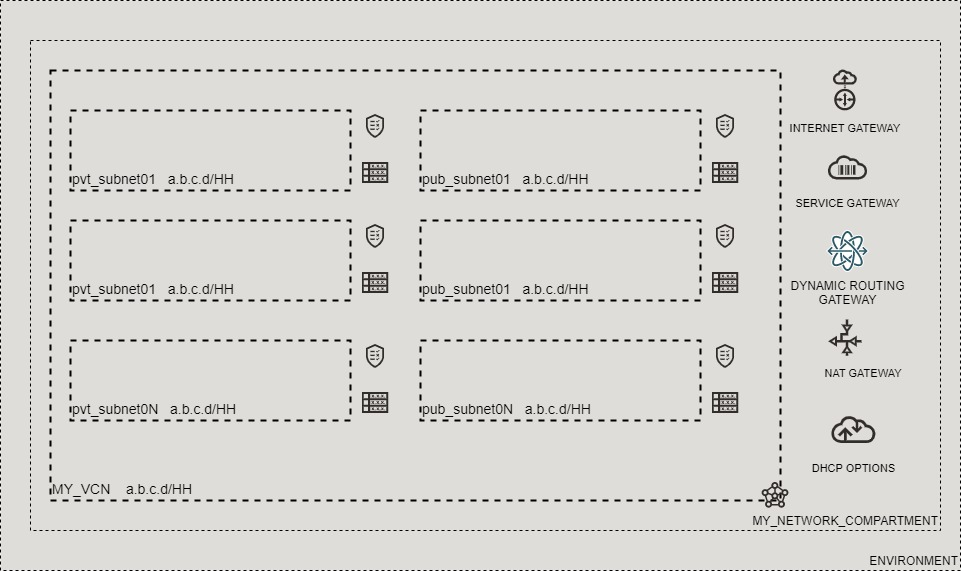
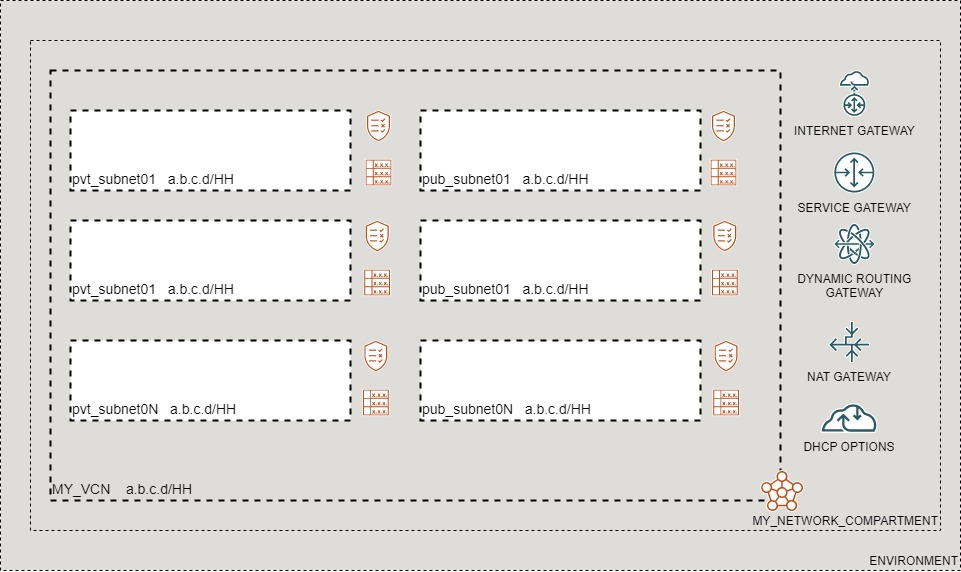
Adds ability to provision basic VCNs
Updates diagram

diff --git a/README.md b/README.md
@@ -100,6 +100,39 @@ is_spoke                 = true
 ########## IS SPOKE ##########
 ```
 
+If implementation is intended to be a basic VCN
+
+```shell
+########## IS BASIC VCN ##########
+########## SAMPLE TFVAR FILE ##########
+########## PROVIDER SPECIFIC VARIABLES ##########
+region           = "foo-region-1"
+tenancy_ocid     = "ocid1.tenancy.oc1..abcdefg"
+user_ocid        = "ocid1.user.oc1..aaaaaaabcdefg"
+fingerprint      = "fo:oo:ba:ar:ba:ar"
+private_key_path = "/absolute/path/to/api/key/your_api_key.pem"
+########## PROVIDER SPECIFIC VARIABLES ##########
+
+########## ARTIFACT SPECIFIC VARIABLES ##########
+vcn_cidr_blocks                     = ["10.0.0.0/16"]
+private_subnet_cidr_block_map       = { "pvtsn01" : "10.0.0.0/23", "pvtsn02" : "10.0.2.0/23", "pvtsn03" : "10.0.4.0/23" }
+public_subnet_cidr_block_map        = { "pubsn01" : "10.0.6.0/23", "pubsn02" : "10.0.8.0/23", "pubsn03" : "10.0.10.0/23" }
+vcn_display_name                    = "VCN_DISPLAY_NAME"
+vcn_network_compartment_name        = "MY_NETWORK_COMPARTMENT"
+dhcp_options_display_name           = "DHCP_Options"
+custom_search_domain                = "test.com"
+private_route_table_display_name    = "pvt_rt"
+public_route_table_display_name     = "pub_rt"
+private_security_list_display_name  = "pvt_sl"
+public_security_list_display_name   = "pub_sl"
+service_gateway_display_name        = "SVC_GW"
+nat_gateway_display_name            = "NAT_GW"
+internet_gateway_display_name       = "INET_GW"
+########## ARTIFACT SPECIFIC VARIABLES ##########
+########## SAMPLE TFVAR FILE ##########
+########## IS BASIC VCN ##########
+```
+
 ### Variable specific considerations
 - Cloudbricks framework allows a single VCN per each compartment. Breaking this rule, will prevent the code to work correctly
 - When filling variables `private_subnet_cidr_block_map` and `public_subnet_cidr_block_map` it expected to provide a comma separated tuple containing first the name of the subnet and then it's corresponding CIDR block
